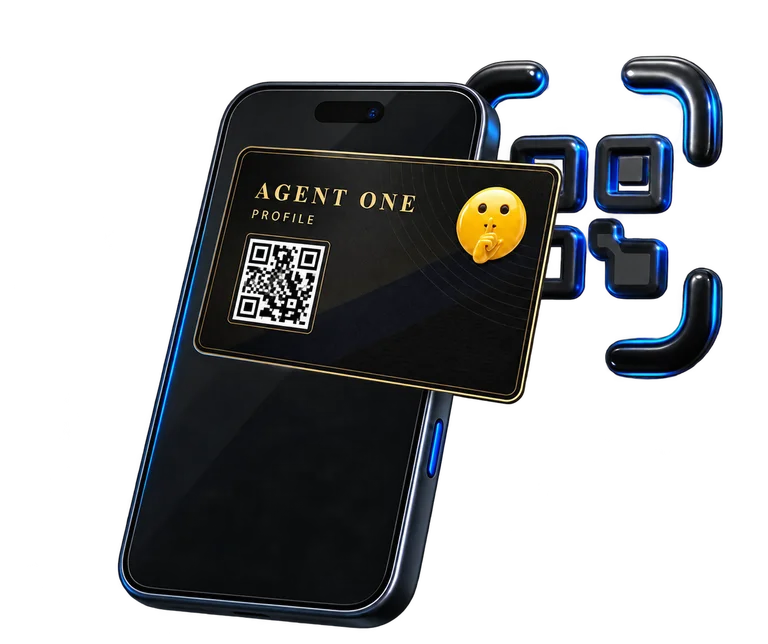
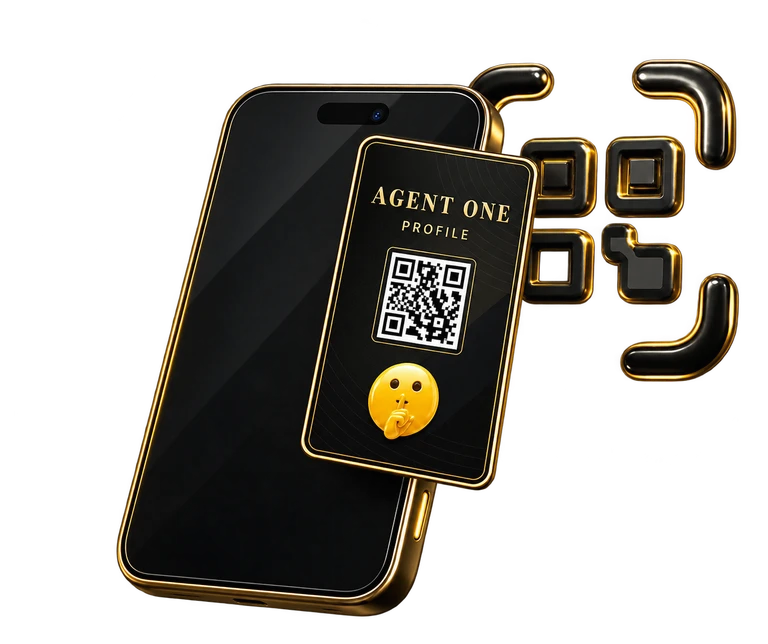
fix(wallet): use portrait card and gold scanner artwork

Changed region(s): [[0.125, 0.0621, 0.9688, 0.9938]]

diff --git a/hushh-webapp/components/wallet/secure-card-add-form.module.css b/hushh-webapp/components/wallet/secure-card-add-form.module.css
@@ -52,7 +52,7 @@
 
 .field input { background-color: var(--app-card-surface-default-solid); }
 
-.scanIntro { display:flex; justify-content:center; padding:12px; border:1px solid var(--app-card-border-standard); border-radius:var(--app-card-radius-feature); background:linear-gradient(160deg, var(--app-card-surface-default-solid) 15%, color-mix(in srgb, var(--app-accent) 18%, var(--app-card-surface-default-solid))); overflow:hidden; }
+.scanIntro { display:flex; justify-content:center; padding:12px; border:1px solid var(--app-card-border-standard); border-radius:var(--app-card-radius-feature); background:var(--app-card-surface-default-solid); overflow:hidden; }
 .scanArtwork { display:flex; flex-direction:column; align-items:center; width:100%; max-width:280px; padding:0; border:0; border-radius:12px; background:transparent; cursor:pointer; }
 .scanArtwork:focus-visible { outline:2px solid var(--app-accent); outline-offset:4px; }
 .scanArtwork:disabled { opacity:.55; cursor:default; }
